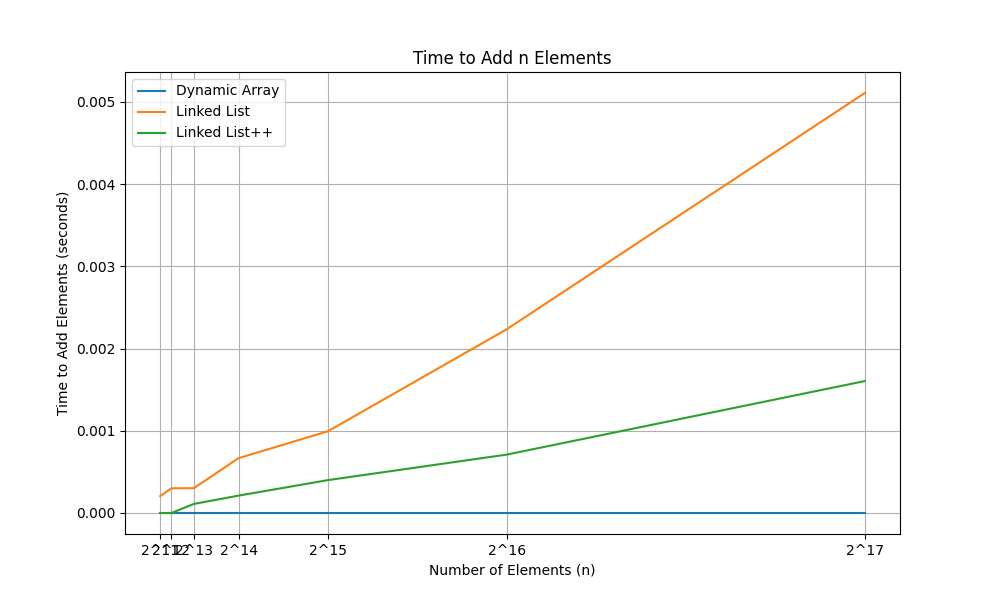
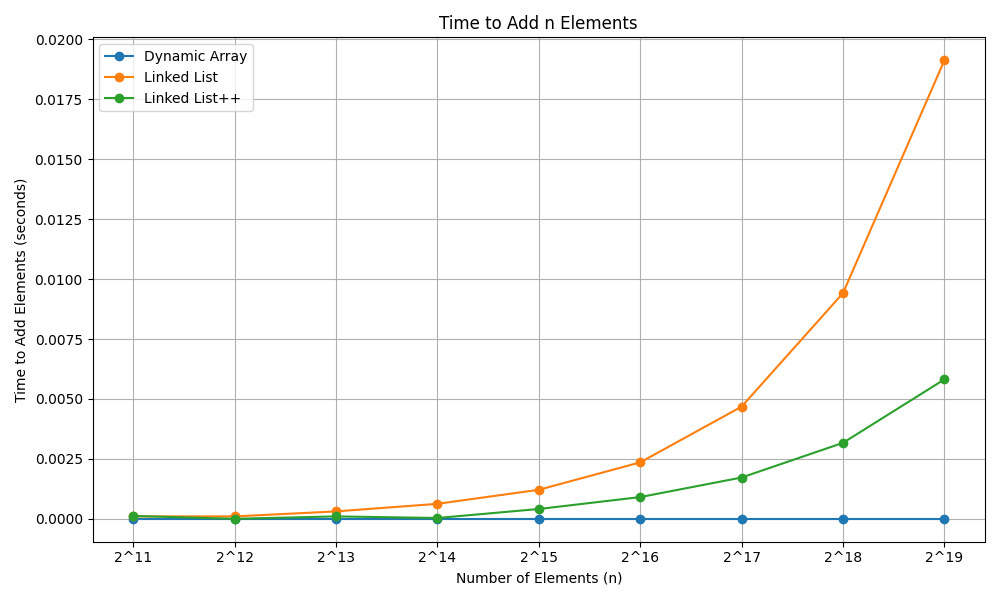
fix plot xticks

diff --git a/hw1/plot_script1_1.py b/hw1/plot_script1_1.py
@@ -19,15 +19,23 @@ def plot_first_graph(filenames, labels, output_image):
     for filename, label in zip(filenames, labels):
         # 讀取 CSV 資料
         data = pd.read_csv(filename)
-        plt.plot(data['n'], data['time'], label=label)
+        # 使用 range(len(data['n'])) 作為 X 軸，保證間隔相同
+        plt.plot(range(len(data['n'])), data['time'], label=label, marker='o')
 
     # 設置圖表的標籤和標題
     plt.xlabel("Number of Elements (n)")
     plt.ylabel("Time to Add Elements (seconds)")
     plt.title("Time to Add n Elements")
-    plt.xticks(data['n'], [f'2^{int(math.log2(n))}' for n in data['n']])
+    
+    # 將 X 軸標籤設置為等距的 2^k 標籤
+    xticks_labels = [f'2^{int(math.log2(n))}' for n in data['n']]
+    plt.xticks(range(len(xticks_labels)), xticks_labels)  # X 軸標籤應該是等距的
+
     plt.legend()
     plt.grid(True)
+    
+    # 儲存並顯示圖表
+    plt.tight_layout()
     plt.savefig(output_image)
     plt.show()
 
@@ -51,7 +59,7 @@ def main():
             f.write("n,time\n")  # CSV header
 
     # 迭代 k 值從 11 到 25，並計算對應的 n = 2^k
-    for k in range(11, 18):
+    for k in range(11, 20):
         n_value = int(math.pow(2, k))
         print(f"Running for n = 2^{k} = {n_value}")
         

diff --git a/hw1/plot_script1.py b/hw1/plot_script1.py
@@ -16,15 +16,23 @@ def plot_first_graph(filenames, labels, output_image):
     for filename, label in zip(filenames, labels):
         # 讀取 CSV 資料
         data = pd.read_csv(filename)
-        plt.plot(data['n'], data['time'], label=label)
+        plt.plot(data['n'], data['time'], label=label,marker='o')
 
     # 設置圖表的標籤和標題
     plt.xlabel("Number of Elements (n)")
     plt.ylabel("Time to Add Elements (seconds)")
     plt.title("Time to Add n Elements")
-    plt.xticks(data['n'], [f'2^{int(math.log2(n))}' for n in data['n']])
+
+
+    # 將 X 軸標籤設置為等距的 2^k 標籤
+    xticks_labels = [f'2^{int(math.log2(n))}' for n in data['n']]
+    plt.xticks(range(len(xticks_labels)), xticks_labels)  # X 軸標籤應該是等距的
+
     plt.legend()
     plt.grid(True)
+    
+    # 儲存並顯示圖表
+    plt.tight_layout()
     plt.savefig(output_image)
     plt.show()
 
@@ -50,7 +58,7 @@ def main():
             f.write("n,time\n")  # CSV header
 
     # 迭代 k 值從 11 到 25，並計算對應的 n = 2^k
-    for k in range(11, 16):
+    for k in range(11, 20):
         n_value = int(math.pow(2, k))
         print(f"Running for n = 2^{k} = {n_value}")
         

diff --git a/hw1/plot_script2.py b/hw1/plot_script2.py
@@ -16,15 +16,22 @@ def plot_first_graph(filenames, labels, output_image):
     for filename, label in zip(filenames, labels):
         # 讀取 CSV 資料
         data = pd.read_csv(filename)
-        plt.plot(data['n'], data['time'], label=label)
+        plt.plot(data['n'], data['time'], label=label,marker='o')
 
     # 設置圖表的標籤和標題
     plt.xlabel("Number of Elements (n)")
     plt.ylabel("Time to Sum Elements (seconds)")
     plt.title("Time to Sum n Elements")
-    plt.xticks(data['n'], [f'2^{int(math.log2(n))}' for n in data['n']])
+
+    # 將 X 軸標籤設置為等距的 2^k 標籤
+    xticks_labels = [f'2^{int(math.log2(n))}' for n in data['n']]
+    plt.xticks(range(len(xticks_labels)), xticks_labels)  # X 軸標籤應該是等距的
+
     plt.legend()
     plt.grid(True)
+    
+    # 儲存並顯示圖表
+    plt.tight_layout()
     plt.savefig(output_image)
     plt.show()
 
